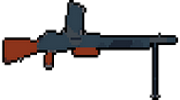
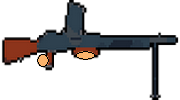
ajout mains armes
ajout des mains sur les armes

Changed region(s): [[0.1944, 0.54, 0.2778, 0.69], [0.4167, 0.51, 0.5278, 0.6]]

diff --git a/Source/Entity/Player.cpp b/Source/Entity/Player.cpp
@@ -2,7 +2,7 @@
 #include <iostream>
 
 Player::Player(std::string texturePath, float defaultLife, sf::Vector2f initPosition) : Entity(texturePath, defaultLife, initPosition) {
-	this->setWeapon(Arme("mas36"));
+	this->setWeapon(Arme("fm2429"));
 
 	_lifeBar.setFillColor(sf::Color::Red);
 	_lifeBar.setOutlineColor(sf::Color::Magenta);
